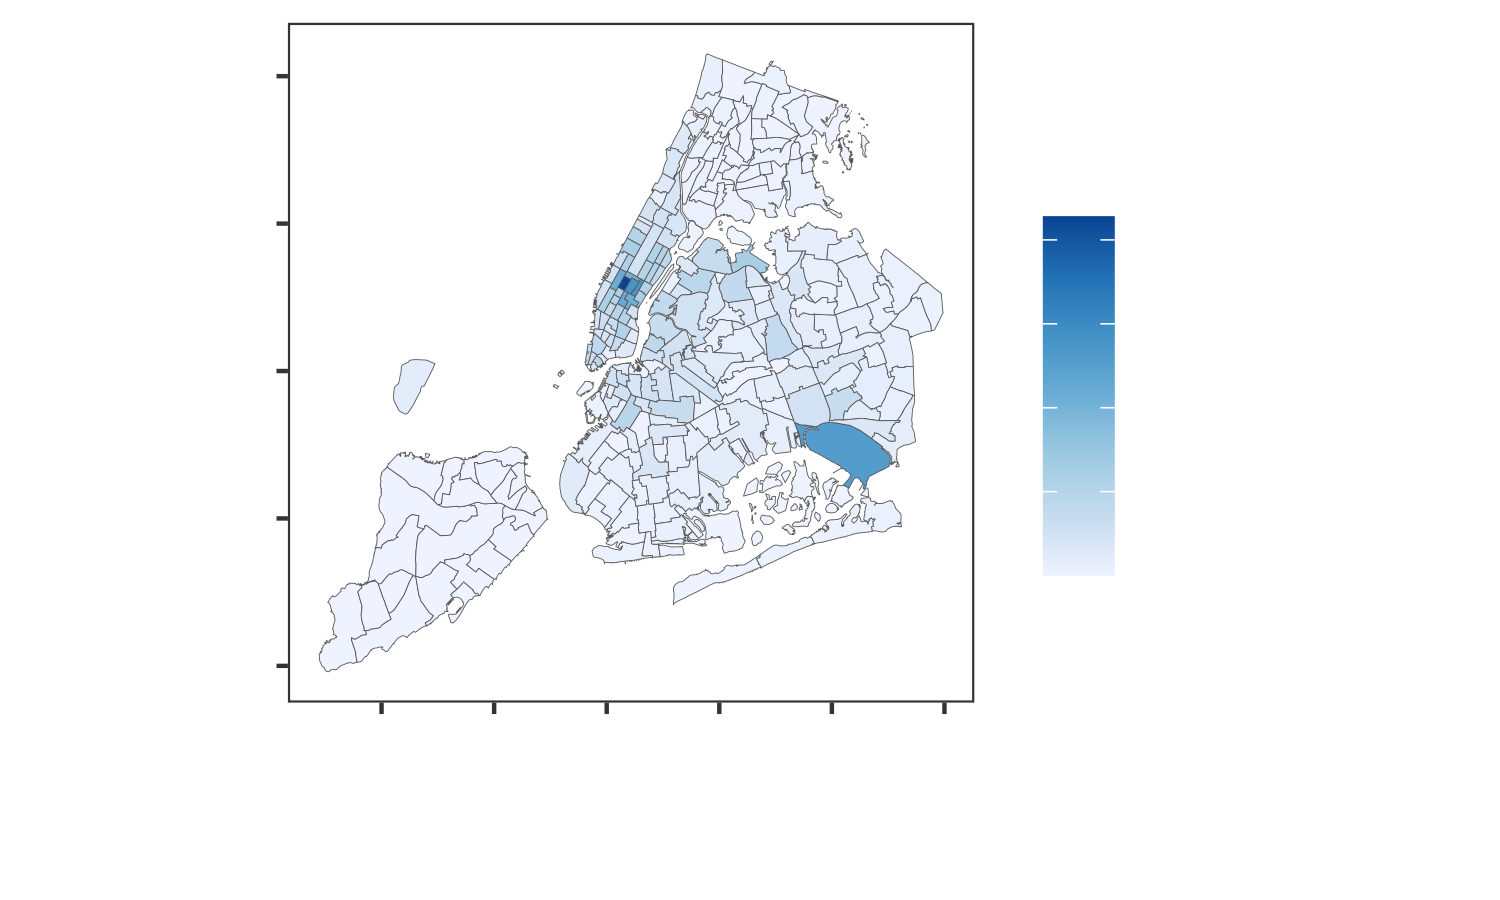
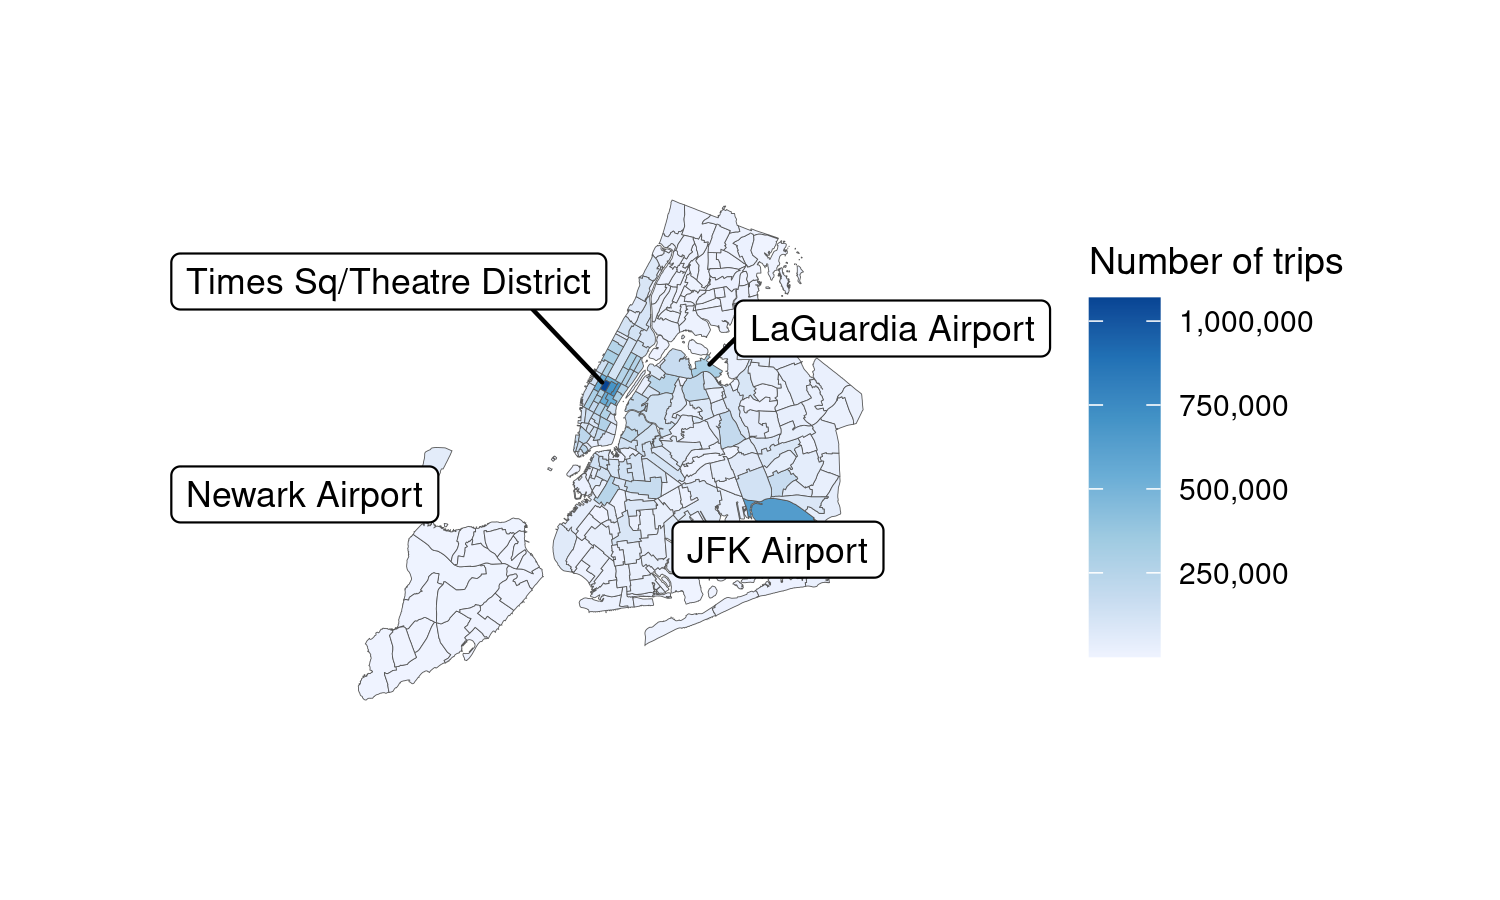
redraw data vis + minor tweaks

diff --git a/index.html b/index.html
@@ -313,8 +313,20 @@ class: theme-green-minimal
 
 ## How do new users get started?
 
-- Simply by typing `install.packages("arrow")`
-- Links to resources go here
+- Install arrow by typing `install.packages("arrow")`
+- To use dplyr pipelines both arrow and dplyr must be loaded
+
+
+```r
+library(arrow)
+library(dplyr)
+```
+
+--
+
+- Installation resources:
+  - [arrow.apache.org/docs/r](https://arrow.apache.org/docs/r/)
+  - [blog.djnavarro.net/starting-apache-arrow-in-r](https://blog.djnavarro.net/starting-apache-arrow-in-r/)
 
 
 
@@ -1006,12 +1018,12 @@ nyc_taxi |&gt;
 ## # A tibble: 6 × 8
 ##   pickup_datetime     pickup_longitude pickup_latitude pickup_location_id
 ##   &lt;dttm&gt;                         &lt;dbl&gt;           &lt;dbl&gt;              &lt;int&gt;
-## 1 2019-11-01 15:10:52               NA              NA                 79
-## 2 2019-11-01 15:03:26               NA              NA                 68
-## 3 2019-11-01 15:10:34               NA              NA                 68
-## 4 2019-11-01 15:10:34               NA              NA                 68
-## 5 2019-11-01 15:14:44               NA              NA                265
-## 6 2019-11-01 15:23:41               NA              NA                265
+## 1 2019-12-01 22:45:18               NA              NA                114
+## 2 2019-12-01 22:04:02               NA              NA                263
+## 3 2019-12-01 22:20:38               NA              NA                 75
+## 4 2019-12-01 22:46:36               NA              NA                 75
+## 5 2019-12-01 22:13:05               NA              NA                107
+## 6 2019-12-01 22:32:19               NA              NA                231
 ## # … with 4 more variables: dropoff_datetime &lt;dttm&gt;, dropoff_longitude &lt;dbl&gt;,
 ## #   dropoff_latitude &lt;dbl&gt;, dropoff_location_id &lt;int&gt;
 ```
@@ -1025,12 +1037,12 @@ nyc_taxi |&gt;
 ## # A tibble: 6 × 8
 ##   pickup_datetime     pickup_longitude pickup_latitude pickup_location_id
 ##   &lt;dttm&gt;                         &lt;dbl&gt;           &lt;dbl&gt;              &lt;int&gt;
-## 1 2019-01-01 14:00:28               NA              NA                 68
-## 2 2019-01-01 14:56:13               NA              NA                 48
-## 3 2019-01-01 14:03:55               NA              NA                141
-## 4 2019-01-01 14:04:37               NA              NA                100
-## 5 2019-01-01 14:13:15               NA              NA                246
-## 6 2019-01-01 14:19:54               NA              NA                186
+## 1 2019-12-01 22:45:18               NA              NA                114
+## 2 2019-12-01 22:04:02               NA              NA                263
+## 3 2019-12-01 22:20:38               NA              NA                 75
+## 4 2019-12-01 22:46:36               NA              NA                 75
+## 5 2019-12-01 22:13:05               NA              NA                107
+## 6 2019-12-01 22:32:19               NA              NA                231
 ## # … with 4 more variables: dropoff_datetime &lt;dttm&gt;, dropoff_longitude &lt;dbl&gt;,
 ## #   dropoff_latitude &lt;dbl&gt;, dropoff_location_id &lt;int&gt;
 
@@ -1626,26 +1638,19 @@ class: theme-green-minimal
 
 ## (A tiny bit more work)
 
-
-
 .pull-left-wide[
 
 ```r
-nyc_taxi_zones_spatial &lt;- "data/taxi_zones/taxi_zones.shp" |&gt; 
+dat &lt;- "data/taxi_zones/taxi_zones.shp" |&gt; 
   sf::read_sf() |&gt;
-  janitor::clean_names()
-
-nyc_taxi_zones_spatial |&gt; 
+  janitor::clean_names() |&gt;
   left_join(nyc_taxi_zone_counts,
-            by = c("zone" = "dropoff_zone")) |&gt;
+            by = c("zone" = "dropoff_zone")) 
+
+pic &lt;- dat |&gt; 
   ggplot(aes(fill = n)) + 
-  geom_sf(size = .1) + 
-  scale_fill_distiller(
-    name = "Number of trips",
-    labels = scales::label_comma(),
-    direction = 1
-  ) + 
-  theme_custom()
+  geom_sf() + 
+  theme_void()
 ```
 ]
 
@@ -1653,12 +1658,14 @@ nyc_taxi_zones_spatial |&gt;
 ---
 
 class: theme-green-minimal
+background-image: url("img/airport_map.png")
+background-size: cover
+background-repeat: no-repeat
+background-position: left
 
-## A nice visualization
+## Data visualization
 
-&lt;img src="index_files/figure-html/taxi-zones-map-1.png" width="750" /&gt;
-
-
+&lt;!-- let's make this super pretty --&gt; 
 
 
 
